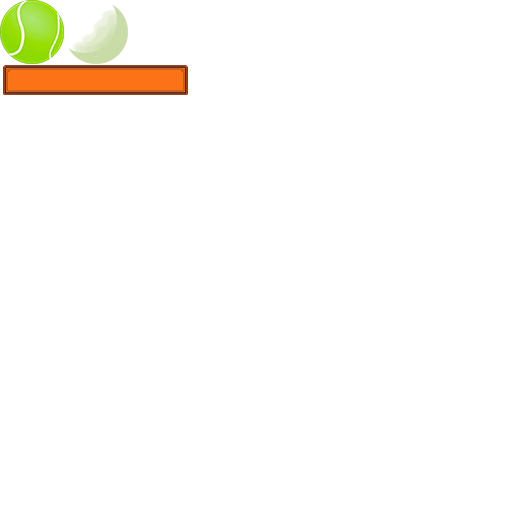
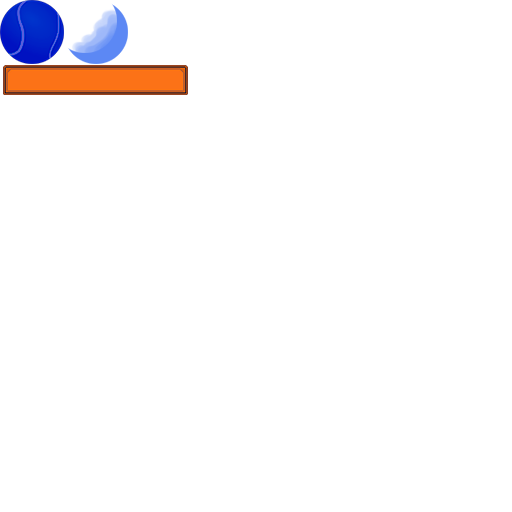
Gravity, ha-ha, classic!

Changed region(s): [[0.0, 0.0, 0.25, 0.125]]

diff --git a/core/src/ru/vgtrofimov/ballsshmalls/actors/ActorBall.java b/core/src/ru/vgtrofimov/ballsshmalls/actors/ActorBall.java
@@ -1,0 +1,101 @@
+package ru.vgtrofimov.ballsshmalls.actors;
+
+import com.badlogic.gdx.graphics.g2d.Batch;
+import com.badlogic.gdx.graphics.g2d.TextureRegion;
+import com.badlogic.gdx.scenes.scene2d.Actor;
+
+import ru.vgtrofimov.ballsshmalls.Balls;
+
+public class ActorBall extends Actor {
+
+    TextureRegion skin;
+    TextureRegion shadow;
+    int correctX, correctY;
+    float speedX, speedY, default_speed_x, default_speed_y;
+    int world_width, world_height;
+    float velocity, gravity, default_velocity = 98;
+    float speed_rotate = 360, default_rotate = 360;
+
+    public ActorBall(TextureRegion skin, TextureRegion shadow, int x, int y, int speedX, int speedY, int world_width, int world_height) {
+        this.skin = skin;
+        this.shadow = shadow;
+        setWidth(skin.getRegionWidth());
+        setHeight(skin.getRegionWidth());
+        correctX = (int) (getWidth() / 2);
+        correctY = (int) (getHeight() / 2);
+        setRotation(default_rotate);
+        setX(x);
+        setY(y);
+        setBounds(x, y, getWidth(), getHeight());
+        setOrigin(32, 32);
+        setScale(1, 1);
+        this.default_speed_x = speedX;
+        this.default_speed_y = speedY;
+        setSpeedX(default_speed_x);
+        setSpeedY(default_speed_y);
+        this.world_width = world_width;
+        this.world_height = world_height;
+        velocity = default_velocity;
+        gravity = 0.1f;
+    }
+
+    @Override
+    public void act(float delta) {
+        super.act(delta);
+
+        setRotation(getRotation() + delta * getSpeedY() + 5);
+
+        setY(getY() + getSpeedY() * delta);
+        //Balls.log("" + getSpeedY());
+
+        check_move_balls(delta);
+    }
+
+    private boolean check_move_balls(float delta) {
+        if (getSpeedY() == 0) return false;
+
+        setSpeedY(getSpeedY() + velocity * delta);
+
+        if (getY() + getHeight() > world_height) {
+            setY(world_height - getHeight());
+            setSpeedY(-getSpeedY() * 0.95f);
+            speed_rotate = default_rotate;
+
+            if (Math.abs(getSpeedY()) < world_height * gravity / 32) setSpeedY(0);
+
+        }
+        if (getY() < 0) {
+            setY(0);
+            setSpeedY(-getSpeedY() * 1.2f);
+            speed_rotate = default_rotate;
+        }
+
+        return true;
+    }
+
+    @Override
+    public void draw(Batch batch, float parentAlpha) {
+        super.draw(batch, parentAlpha);
+        batch.setColor(0.1f, 0.2f, 0, parentAlpha / 2);
+        batch.draw(skin, getX() - correctX + 8, getY() - correctY + 8, getOriginX(), getOriginY(), getWidth(), getHeight(), getScaleX(), getScaleY(), getRotation());
+        batch.setColor(1, 1, 1, parentAlpha);
+        batch.draw(skin, getX() - correctX, getY() - correctY, getOriginX(), getOriginY(), getWidth(), getHeight(), getScaleX(), getScaleY(), getRotation());
+        batch.draw(shadow, getX() - correctX, getY() - correctY, getOriginX(), getOriginY(), getWidth(), getHeight(), getScaleX(), getScaleY(), 0);
+    }
+
+    public float getSpeedX() {
+        return speedX;
+    }
+
+    public void setSpeedX(float speedX) {
+        this.speedX = speedX;
+    }
+
+    public float getSpeedY() {
+        return speedY;
+    }
+
+    public void setSpeedY(float speedY) {
+        this.speedY = speedY;
+    }
+}

diff --git a/core/src/ru/vgtrofimov/ballsshmalls/stages/GameStage.java b/core/src/ru/vgtrofimov/ballsshmalls/stages/GameStage.java
@@ -6,27 +6,23 @@ import com.badlogic.gdx.utils.viewport.Viewport;
 
 import ru.vgtrofimov.ballsshmalls.Balls;
 import ru.vgtrofimov.ballsshmalls.actors.ActorBackground;
+import ru.vgtrofimov.ballsshmalls.actors.ActorBall;
 import ru.vgtrofimov.ballsshmalls.screens.GameScreen;
+import ru.vgtrofimov.ballsshmalls.settings.Setup;
 import ru.vgtrofimov.ballsshmalls.textures.Textures;
 
 public class GameStage extends StageParent {
 
     Textures textures;
+    int game_world_width, game_world_height;
 
-    int z = 1;
-
+    ActorBall actorBall;
 
     public GameStage(GameScreen gameScreen, Viewport viewport, OrthographicCamera camera, Textures textures) {
         super(gameScreen, viewport, camera);
         this.textures = textures;
 
-        int w, h;
-        w = Gdx.graphics.getWidth();
-        h = Gdx.graphics.getHeight();
-        Balls.log(w + " " + h);
-
-        getViewport().setWorldWidth(512);
-        getViewport().setWorldHeight(512 * h / w);
+        resize(Gdx.graphics.getWidth(), Gdx.graphics.getHeight());
 
         reset();
     }
@@ -37,16 +33,50 @@ public class GameStage extends StageParent {
 
     private void addActors() {
         ActorBackground actorBackground = new ActorBackground(textures.getBackground());
+        actorBall = new ActorBall(textures.getBall(), textures.getBall_shadow(),
+                game_world_width / 2,
+                game_world_height / 2,
+                0,
+                50,
+                game_world_width,
+                game_world_height);
+
+
         addActor(actorBackground);
+        addActor(actorBall);
     }
 
     @Override
     public void act(float delta) {
         super.act(delta);
 
-        getCamera().position.set(256, 512 + z, 0);
-        z += 1;
+        int cam_pos_x = (int) (game_world_width / 2);
+        int cam_pos_y = (int) (actorBall.getY());
+
+        if (cam_pos_y > game_world_height - camera.viewportHeight / 2) {
+            cam_pos_y = (int) (game_world_height - camera.viewportHeight / 2);
+        } else if (cam_pos_y < camera.viewportHeight / 2) {
+            cam_pos_y = (int) (camera.viewportHeight / 2);
+        }
+
+        camera.position.set(cam_pos_x, cam_pos_y, 0);
         camera.update();
 
+    }
+
+    @Override
+    public void resize(int width, int height) {
+
+        game_world_width = 512;
+        game_world_height = textures.getBackground().getRegionHeight() * Setup.count_background;
+
+        getViewport().setWorldWidth(game_world_width);
+        getViewport().setWorldHeight(game_world_width * height / width);
+        getViewport().update(game_world_width, game_world_width * height / width);
+    }
+
+    @Override
+    public void draw() {
+        super.draw();
     }
 }

diff --git a/core/src/ru/vgtrofimov/ballsshmalls/screens/GameScreen.java b/core/src/ru/vgtrofimov/ballsshmalls/screens/GameScreen.java
@@ -9,6 +9,7 @@ import com.badlogic.gdx.utils.viewport.Viewport;
 
 import ru.vgtrofimov.ballsshmalls.Balls;
 import ru.vgtrofimov.ballsshmalls.stages.GameStage;
+import ru.vgtrofimov.ballsshmalls.stages.StageParent;
 import ru.vgtrofimov.ballsshmalls.textures.Textures;
 
 public class GameScreen implements Screen {
@@ -17,7 +18,7 @@ public class GameScreen implements Screen {
     Viewport viewport;
     OrthographicCamera camera;
     AssetManager manager;
-    Stage currentStage;
+    StageParent currentStage;
     Textures textures;
 
     public GameScreen(Balls balls, Viewport viewport, OrthographicCamera camera, AssetManager manager, Textures textures) {
@@ -54,7 +55,7 @@ public class GameScreen implements Screen {
 
     @Override
     public void resize(int width, int height) {
-
+        currentStage.resize(width, height);
     }
 
     @Override

diff --git a/core/src/ru/vgtrofimov/ballsshmalls/actors/ActorBackground.java b/core/src/ru/vgtrofimov/ballsshmalls/actors/ActorBackground.java
@@ -4,6 +4,8 @@ import com.badlogic.gdx.graphics.g2d.Batch;
 import com.badlogic.gdx.graphics.g2d.TextureRegion;
 import com.badlogic.gdx.scenes.scene2d.Actor;
 
+import ru.vgtrofimov.ballsshmalls.settings.Setup;
+
 public class ActorBackground extends Actor {
 
     TextureRegion skin;
@@ -28,6 +30,8 @@ public class ActorBackground extends Actor {
     @Override
     public void draw(Batch batch, float parentAlpha) {
         super.draw(batch, parentAlpha);
-        batch.draw(skin, getX(), getY(), getOriginX(), getOriginY(), getWidth(), getHeight(), getScaleX(), getScaleY(), getRotation());
+        for (int i = 0; i < Setup.count_background; i++) {
+            batch.draw(skin, getX(), getY() + i * getWidth(), getOriginX(), getOriginY(), getWidth(), getHeight(), getScaleX(), getScaleY(), getRotation());
+        }
     }
 }

diff --git a/core/src/ru/vgtrofimov/ballsshmalls/settings/Setup.java b/core/src/ru/vgtrofimov/ballsshmalls/settings/Setup.java
@@ -4,4 +4,7 @@ public class Setup {
 
     public static final String APP_ID = "BALLS_SHMALLS";
     public static final String FONT_CHARS = "абвгдеёжзийклмнопрстуфхцчшщъыьэюяabcdefghijklmnopqrstuvwxyzАБВГДЕЁЖЗИЙКЛМНОПРСТУФХЦЧШЩЪЫЬЭЮЯABCDEFGHIJKLMNOPQRSTUVWXYZ0123456789][_!$%#@|\\/?-+=()*&.;:,{}\"´`'<>";
+
+    // Сколько раз повторяется текстура (высота игрового мира)
+    public static int count_background = 10;
 }

diff --git a/core/src/ru/vgtrofimov/ballsshmalls/textures/Textures.java b/core/src/ru/vgtrofimov/ballsshmalls/textures/Textures.java
@@ -20,7 +20,7 @@ public class Textures {
 
         load = new Texture("png/pack.png");
         ball = getTextureRegionFromMap(0, 0, 64, 64, true, true, load);
-        ball_shadow = getTextureRegionFromMap(64, 0, 64, 64, true, true, load);
+        ball_shadow = getTextureRegionFromMap(64, 0, 64, 64, false, true, load);
     }
 
     private TextureRegion getTextureRegionFromMap(int x, int y, int width, int height, boolean flipX, boolean flipY, Texture texture) {

diff --git a/core/src/ru/vgtrofimov/ballsshmalls/stages/StageParent.java b/core/src/ru/vgtrofimov/ballsshmalls/stages/StageParent.java
@@ -24,7 +24,9 @@ public class StageParent extends Stage {
         super.act(delta);
     }
 
-    public void end() {
+    public void end() {   }
 
-    }
+    public void resize(int width, int height) { }
+
+
 }
